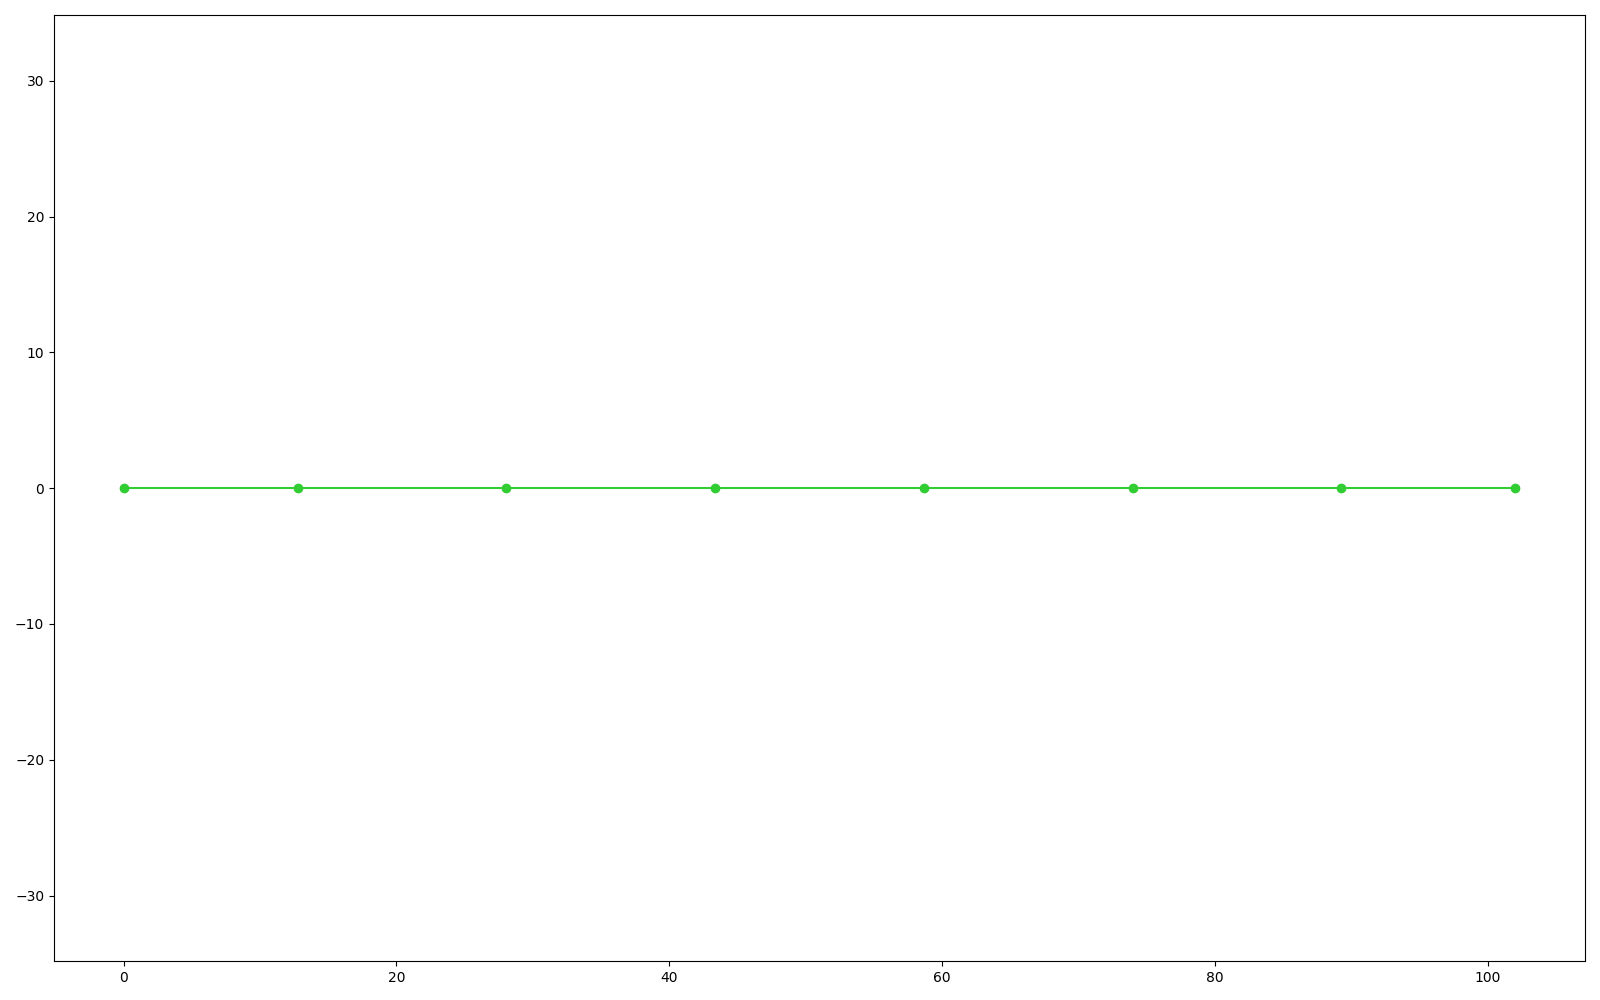
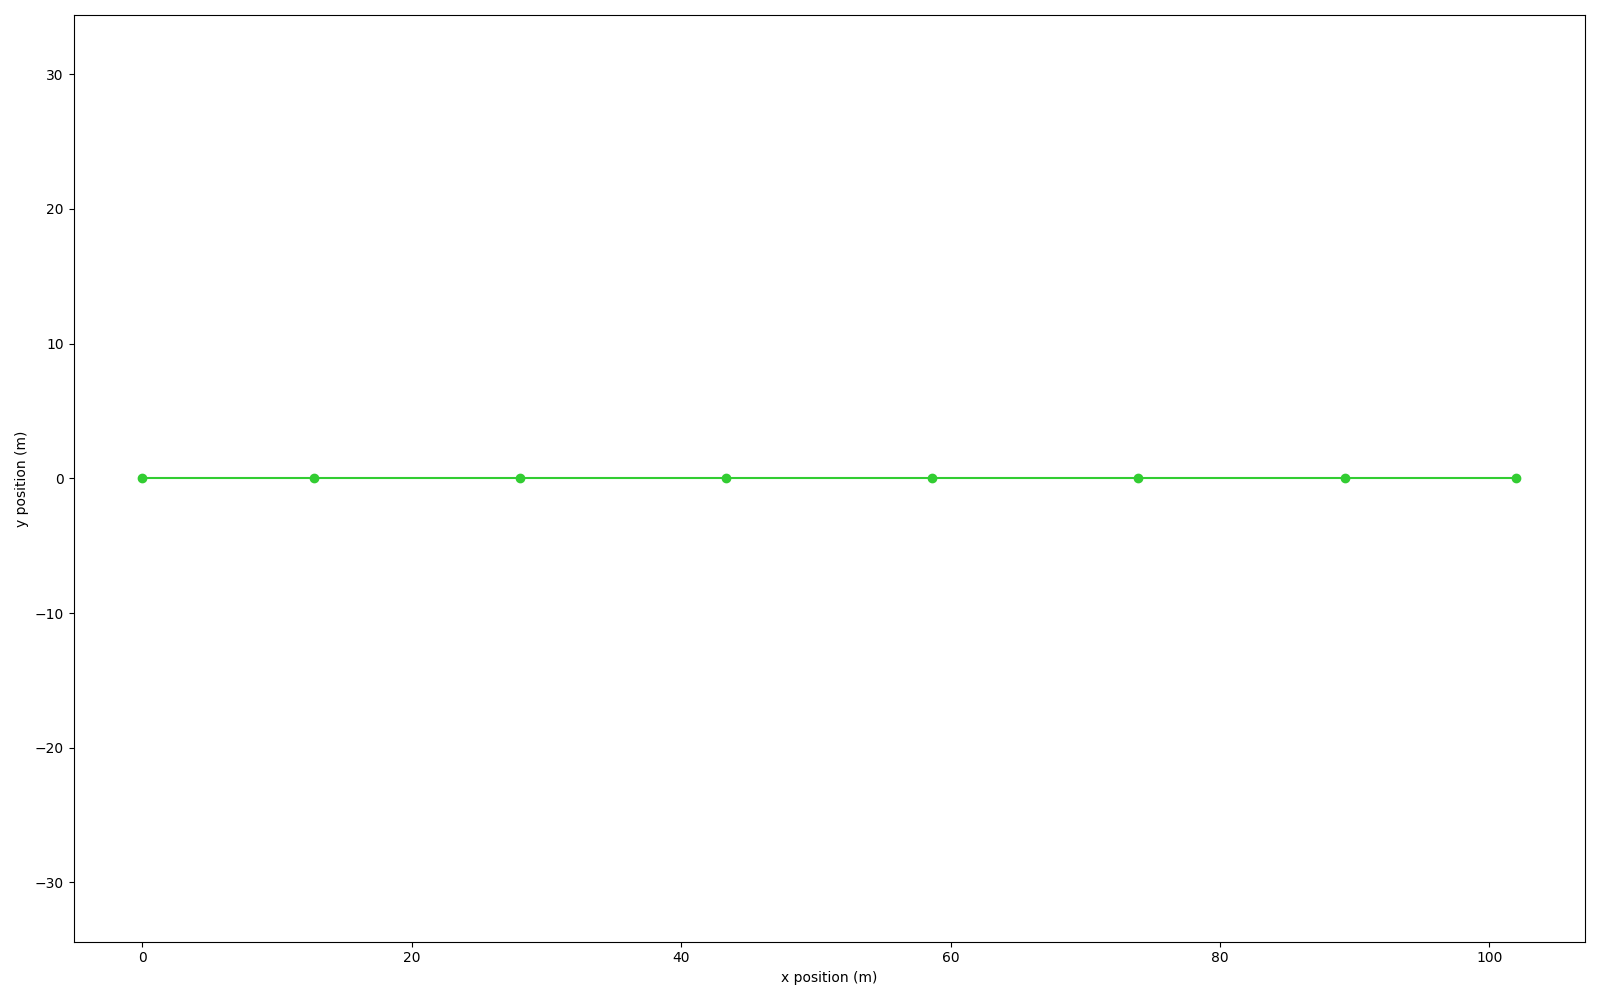
Move to sortof buggy interpolation

diff --git a/code/fem/responses/__init__.py b/code/fem/responses/__init__.py
@@ -30,19 +30,23 @@ class FEMResponses:
     """Responses of one sensor type for one FEM simulation.
 
     FEMResponses.responses can be indexed as [time][x][y][z], where x, y, z are
-    axis ordinates, but it is better to use the .at method to access responses.
+    axis positions in meters, but it is better to use the .at method to access
+    responses, which will compute a weighted response between the 8 closest
+    points of a cube.
 
     Args:
         fem_params: FEMParams, the parameters of the simulation.
         runner_name: str, the FEMRunner used to run the simulation.
         response_type: ResponseType, the type of sensor responses collected.
+        responses: List[Response], the raw responses from simulation.
         skip_build: bool, reduces time if responses will only be saved.
 
-    TODO: Warn about assumption.
+    TODO: Warn about assumption of equidistant points?
+
     """
     def __init__(
             self, c: Config, fem_params: FEMParams, runner_name: str,
-            response_type: ResponseType, responses: [Response],
+            response_type: ResponseType, responses: List[Response],
             skip_build: bool = False):
         assert isinstance(responses, list)
         assert isinstance(responses[0], Response)
@@ -74,87 +78,78 @@ class FEMResponses:
         self.zs = {x: {y: sorted(points[x][y].keys())
                        for y in self.ys[x]} for x in self.xs}
 
-    # def indices(self, x_frac: float = 0, y_frac: float = 0, z_frac: float = 0):
-    #     """Return the indices and values of the closest available values.
-
-    #     Return a 6-tuple of (x_ind, x_true, y_ind, y_true, z_ind, z_true) where
-    #     the _true values are the closest available values, and the _ind values
-    #     are the indices for accessing the resective _true values.
-
-    #     """
-    #     x_ind = int(np.interp(x_frac, [0, 1], [0, len(self.xs) - 1]))
-    #     x_true = self.xs[x_ind]
-    #     y_ind = int(np.interp(y_frac, [0, 1], [0, len(self.ys[x_true]) - 1]))
-    #     y_true = self.ys[x_true][y_ind]
-    #     z_ind = int(
-    #         np.interp(z_frac, [0, 1], [0, len(self.zs[x_true][y_true]) - 1]))
-    #     z_true = self.zs[x_true][y_true][y_ind]
-    #     return (x_ind, x_true, y_ind, y_true, z_ind, z_true)
-
     def _x_indices(self, x: float) -> Tuple[int, int]:
         """Indices of the x positions of sensors either side of x.
 
-        TODO: Test this, and switch to numpy.searchsorted.
+        TODO: Test this, and switch to numpy.searchsorted for performance.
 
         """
+        # If only one point, return that.
+        if len(self.xs) == 1:
+            return 0, 0
+        # Points are sorted, so find the first equal or greater.
         for i in range(len(self.xs)):
             if self.xs[i] == x:
                 return i, i
             if self.xs[i] > x and i > 0:
                 return i - 1, i
-        # x_ind_f = np.interp(x_frac, [0, 1], [0, len(self.xs) - 1])
-        # x_ind = int(x_ind_f)
-        # return (x_ind, x_ind) if x_ind_f == x_ind else (x_ind, x_ind + 1)
+        # Else the last point.
+        return i, i
 
     def _y_indices(self, x: float, y: float) -> Tuple[int, int]:
         """Indices of the y positions of sensors either side of y.
 
-        TODO: Test this, and switch to numpy.searchsorted.
+        TODO: Test this, and switch to numpy.searchsorted for performance.
 
         """
-        # print(f"x = {x}")
-        # print(self.ys[x])
+        print(self.ys[x])
+        print(f"x = {x}, y = {y}")
+        # If only one point, return that.
         if len(self.ys[x]) == 1:
             return 0, 0
+        # Points are sorted, so find the first equal or greater.
         for i in range(len(self.ys[x])):
             if self.ys[x][i] == y:
                 return i, i
             if self.ys[x][i] > y and i > 0:
                 return i - 1, i
-        # y_ind_f = np.interp(y_frac, [0, 1], [0, len(self.ys[x]) - 1])
-        # y_ind = int(y_ind_f)
-        # return (y_ind, y_ind) if y_ind_f == y_ind else (y_ind, y_ind + 1)
+        # Else the last point.
+        return i, i
 
     def _z_indices(self, x: float, y: float, z: float) -> Tuple[int, int]:
         """Indices of the z positions of sensors either side of z.
 
-        TODO: Test this, and switch to numpy.searchsorted.
+        TODO: Test this, and switch to numpy.searchsorted for performance.
 
         """
+        # If only one point, return that.
         if len(self.zs[x][y]) == 1:
             return 0, 0
+        # Points are sorted, so find the first equal or greater.
         for i in range(len(self.zs[x][y])):
             if self.zs[x][y][i] == z:
                 return i, i
             if self.zs[x][y][i] > z and i > 0:
                 return i - 1, i
-        # z_ind_f = np.interp(z_frac, [0, 1], [0, len(self.zs[x][y]) - 1])
-        # z_ind = int(z_lo_ind_f)
-        # return (z_ind, z_ind) if z_ind_f == z_ind else (z_ind, z_ind + 1)
+        # Else the last point.
+        return i, i
 
     def at(
             self, x_frac: float = 0, y_frac: float = 1, z_frac: float = 0.5,
             time_index: int = 0):
-        """Compute an interpolated response via axis fractions in [0 1]."""
+        """Compute an interpolated response via axis fractions in [0 1].
+
+        The response is calulated as a weighted response between the 8 closest
+        points of a cube.
+
+        """
         assert 0 <= x_frac <= 1
         assert 0 <= y_frac <= 1
-        assert self.c.bridge.z_min <= z_frac <= self.c.bridge.z_max
+        assert 0 <= z_frac <= 1
 
         x = self.c.bridge.x(x_frac=x_frac)
         y = self.c.bridge.y(y_frac=y_frac)
         z = self.c.bridge.z(z_frac=z_frac)
-        # print_i(f"x_frac, y_frac, z_frac = ({x_frac}, {y_frac}, {z_frac})")
-        print_i(f"x, y, z = ({x}, {y}, {z})")
 
         x_lo_ind, x_hi_ind = self._x_indices(x=x)
         x_lo, x_hi = self.xs[x_lo_ind], self.xs[x_hi_ind]
@@ -181,12 +176,26 @@ class FEMResponses:
             Point(x=x_lo, y=y_lo_x_lo, z=z_hi_y_lo_x_lo),  # 1 0 0
             Point(x=x_hi, y=y_lo_x_hi, z=z_hi_y_lo_x_hi),  # 1 0 1
             Point(x=x_lo, y=y_hi_x_lo, z=z_hi_y_hi_x_lo),  # 1 1 0
-            Point(x=x_hi, y=y_hi_x_hi, z=z_hi_y_hi_x_hi)   # 1 1 1
-        ]
+            Point(x=x_hi, y=y_hi_x_hi, z=z_hi_y_hi_x_hi)]  # 1 1 1
+        [print(f"point = {point}") for point in points]
         request = Point(x=x, y=y, z=z)
-        distances = [p.distance(request) for p in points]
-        [print(p) for p in points]
-        print(distances)
+        print(f"request = {request}")
+        distances = [point.distance(request) for point in points]
+        print(f"distances = {distances}")
+        sum_distances = sum(distances)
+        if sum_distances == 0:
+            p = points[0]
+            return self.responses[time_index][p.x][p.y][p.z].value
+        print(f"sum distances = {sum_distances}")
+        responses = [
+            self.responses[time_index][point.x][point.y][point.z].value
+            for point in points]
+        print(f"responses = {responses}")
+        response = sum([
+            response * (distance / sum_distances)
+            for response, distance in zip(responses, distances)])
+        print(f"response = {response}")
+        return response
 
     def at_(
             self, x_frac: float = 0, y_frac: float = 0, z_frac: float = 0,

diff --git a/code/plot/matrices.py b/code/plot/matrices.py
@@ -6,6 +6,7 @@ from fem.responses.matrix import ILMatrix, ResponsesMatrix
 from fem.run.opensees import os_runner
 from model.bridge.bridge_705 import bridge_705_config
 from plot import plt, plot_bridge_deck_side, sci_format_y_axis
+from util import print_d, print_i
 
 
 def plot_il(
@@ -37,7 +38,8 @@ def plot_dc(
     """Plot the IL for a response at some position."""
     fem_responses = resp_matrix.expt_responses[i]
     xs = fem_responses.xs
-    rs = [resp_matrix.expt_responses[i].at(x_ord=x).value for x in xs]
+    rs = [resp_matrix.expt_responses[i].at(x_frac=c.bridge.x_frac(x))
+          for x in xs]
     response_name = resp_matrix.response_type.name()
     response_units = resp_matrix.response_type.units()
     plt.title(f"{response_name.capitalize()} at simulation {i}")
@@ -86,15 +88,28 @@ def matrix_subplots(
 
 
 def imshow_il(
-        c: Config, il_matrix: ILMatrix, num_ils: int=10, num_x: int=100,
-        save: str=None, show: bool=False):
+        c: Config, il_matrix: ILMatrix, num_ils: int = 10, num_x: int = 100,
+        save: str = None, show: bool = False):
     """Plot a matrix of influence line for multiple response positions."""
     response_fracs = np.linspace(0, 1, num_ils)
     x_fracs = np.linspace(0, 1, num_x)
-    matrix = [
-        [il_matrix.response_to(response_frac, load_x_frac, c.il_unit_load_kn)
-         for load_x_frac in x_fracs]
-        for response_frac in response_fracs]
+    matrix = []
+    for response_frac in response_fracs:
+        matrix.append([])
+        for load_x_frac in x_fracs:
+            value = il_matrix.response_to(
+                resp_x_frac=response_frac, load_x_frac=load_x_frac,
+                load=c.il_unit_load_kn)
+            print_i(f"value = {value}, response_frac = {response_frac}, load_x_frac = {load_x_frac}")
+            matrix[-1].append(value)
+    # matrix = [
+    #     [il_matrix.response_to(
+    #         resp_x_frac=response_frac, load_x_frac=load_x_frac,
+    #         load=c.il_unit_load_kn)
+    #      for load_x_frac in x_fracs]
+    #     for response_frac in response_fracs]
+    print(np.amax(np.array(matrix)))
+    print(np.amin(np.array(matrix)))
     plt.imshow(matrix, aspect="auto")
     plt.colorbar()
     plt.ylabel("load index")

diff --git a/code/make/make_plots.py b/code/make/make_plots.py
@@ -38,13 +38,16 @@ def make_bridge_plots(c: Config):
 def make_il_plots(c: Config):
     """Make plots of the influence lines."""
     for response_type in ResponseType:
-        il_matrix = load_il_matrix(
-            c, response_type, os_runner(c), num_loads=100)
         num_ils, num_x = 10, 100
-        imshow_il(c, il_matrix, save=c.image_path(
-            f"ils/il-imshow-{il_matrix.fem_runner_name}"
-            + f"-{response_type.name()}"
-            + f"-{num_ils}-{num_x}"))
+        il_matrix = load_il_matrix(
+            c=c, response_type=response_type, fem_runner=os_runner(c),
+            num_loads=num_ils)
+        imshow_il(
+            c=c, il_matrix=il_matrix, num_ils=num_ils, num_x=num_x,
+            save=c.image_path(
+                f"ils/il-imshow-{il_matrix.fem_runner_name}"
+                + f"-{response_type.name()}"
+                + f"-{num_ils}-{num_x}"))
         rows, cols = 4, 3
         matrix_subplots(
             c, il_matrix, rows=rows, cols=cols, plot_func=plot_il,
@@ -126,13 +129,13 @@ def make_all(c: Config, clean = True):
     """Make all plots for the thesis."""
     if clean:
         clean_generated(c)
-    make_bridge_plots(c)
+    # make_bridge_plots(c)
     make_il_plots(c)
-    make_dc_plots(c)
-    make_normal_mv_load_animations(c)
-    make_normal_mv_load_animations(c, per_axle=True)
-    make_vehicle_plots(c)
-    make_event_plots_from_normal_mv_loads(c)
+    # make_dc_plots(c)
+    # make_normal_mv_load_animations(c)
+    # make_normal_mv_load_animations(c, per_axle=True)
+    # make_vehicle_plots(c)
+    # make_event_plots_from_normal_mv_loads(c)
 
 
 if __name__ == "__main__":

diff --git a/code/plot/__init__.py b/code/plot/__init__.py
@@ -108,6 +108,8 @@ def plot_bridge_deck_side(
         [0 for _ in range(len(bridge.fixed_nodes))],
         "o", color=pier_color)
     if equal_axis: plt.axis("equal")
+    plt.xlabel("x position (m)")
+    plt.ylabel("y position (m)")
     for load in loads:
         _plot_load_deck_side(
             bridge, load, normalize_vehicle_height=normalize_vehicle_height)
@@ -139,11 +141,13 @@ def plot_bridge_deck_top(
     for lane in bridge.lanes:
         plt.gca().add_patch(
             patches.Rectangle(
-                (0, lane.z0), bridge.length, lane.z1 - lane.z0,
+                (0, lane.z_min), bridge.length, lane.z_max - lane.z_min,
                 facecolor=lane_color))
     for load in loads:
         _plot_load_deck_top(bridge, load)
     plt.axis("equal")
+    plt.xlabel("x position (m)")
+    plt.ylabel("z position (m)")
     if save: plt.savefig(save)
     if show: plt.show()
     if save or show: plt.close()
@@ -171,6 +175,8 @@ def plot_section(section: Section, save: str = None, show: bool = False):
     by_label = OrderedDict(zip(labels, handles))
     plt.legend(by_label.values(), by_label.keys())
     plt.axis("equal")
+    plt.xlabel("z position (m)")
+    plt.ylabel("y position (m)")
     if save: plt.savefig(save)
     if show: plt.show()
     if save or show: plt.close()

diff --git a/code/fem/responses/test_matrix.py b/code/fem/responses/test_matrix.py
@@ -2,12 +2,13 @@
 import os
 from timeit import default_timer as timer
 
-from fem.responses.matrix import DCMatrix, ILMatrix
+from fem.responses.matrix import DCMatrix, load_il_matrix
 from fem.run.opensees import os_runner
-from model import *
-from model.bridge_705 import bridge_705_config
-from util import *
+from model.bridge.bridge_705 import bridge_705_config
+from model.response import ResponseType
+from util import print_d
 
+# TODO: This is a very bad test.
 
 c = bridge_705_config()
 path = os.path.join(c.generated_dir,
@@ -31,9 +32,11 @@ def test_os_il_matrix():
 
     # Test time for one simulation.
     start = timer()
-    ILMatrix.load(c, response_type, fem_runner, num_loads=1, save_all=False)
+    load_il_matrix(
+        c=c, response_type=response_type, fem_runner=fem_runner, num_loads=1,
+        save_all=False)
     time = timer() - start
-    assert 0.1 < time and time < 1.5
+    assert 0.1 < time and time < 2
 
     # Test file is created.
     assert os.path.exists(path)
@@ -43,7 +46,7 @@ def test_os_il_matrix():
     start = timer()
     ILMatrix.load(c, response_type, fem_runner, num_loads=1, save_all=True)
     time = timer() - start
-    assert 0.5 < time and time < 3.5
+    assert 0.5 < time and time < 4
 
 
 

diff --git a/code/model/scenario.py b/code/model/scenario.py
@@ -18,19 +18,18 @@ class TrafficScenario:
         self.vehicle = vehicle
 
 
-# TODO: Use adt library.
-
 class BridgeScenario:
     """Base class for bridge scenarios. Do not construct directly."""
-    pass
+    def __init__(self, name: str):
+        self.name = name
 
 
 class BridgeScenarioNormal(BridgeScenario):
     def __init__(self):
-        self.name = "normal"
+        super().__init__(name="normal")
 
 
-class BridgeScenarioDisplacement(BridgeScenario):
+class BridgeScenarioDisplacementCtrl(BridgeScenario):
     def __init__(self, displacement_ctrl: DisplacementCtrl):
-        self.name = "displacement"
+        super().__init__(name="displacement")
         self.displacement_ctrl = displacement_ctrl

diff --git a/code/make/make_text.py b/code/make/make_text.py
@@ -2,9 +2,10 @@
 from config import Config
 from model.bridge.bridge_705 import bridge_705_config
 from vehicles.stats import vehicle_data_noise_stats, vehicle_density_stats
+from util import print_i
 
 
-def make_all(c: Config, clean=True):
+def make_all(c: Config, clean: bool = True):
     """Make all textual information for the thesis."""
     print_i("\n\n" + vehicle_density_stats(c) + "\n")
     print_i("\n\n" + vehicle_data_noise_stats(c) + "\n")

diff --git a/code/fem/responses/matrix.py b/code/fem/responses/matrix.py
@@ -152,7 +152,7 @@ class ILMatrix(ResponsesMatrix):
 
 def load_il_matrix(
         c: Config, response_type: ResponseType, fem_runner: FEMRunner,
-        num_loads: int=100, save_all: bool=True) -> ILMatrix:
+        num_loads: int = 100, save_all: bool = True) -> ILMatrix:
     """Load an ILMatrix from disk, running simulations first if necessary.
 
     Args:
